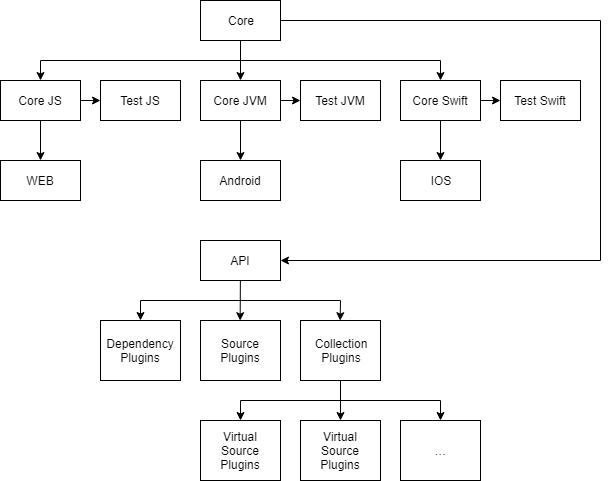
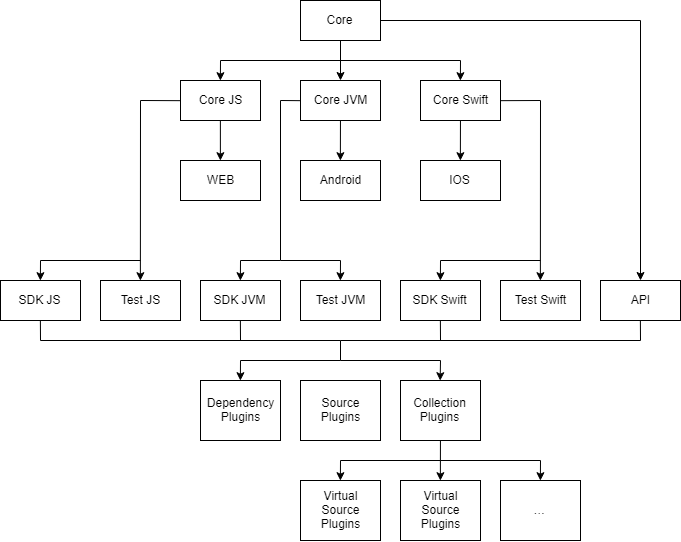
Update architecture

diff --git a/README.md b/README.md
@@ -8,15 +8,17 @@ EhViewer Evelin 是一个图片资源浏览器，其中漫画为主要对象。
 
 Core 为 Multiplatform Projects 中的 common 模块，完全用 Kotlin 来写。提供一套 API 接口供 Plugins 使用，并且以与平台无关的代码完成部分业务逻辑。
 
+API 为 Core 导出的一套供 Plugins 使用的接口。
+
 Core JS，Core JVM，Core Swift 为 Multiplatform Projects 中的 platform 模块，全部或部分用 Kotlin 来写。利用与平台相关的代码完善 Core 中的业务逻辑。
+
+SDK JS，SDK JVM，SDK Swift 由 Core JS，Core JVM，Core Swift 分别导出，为 Plugins 提供编译环境。
 
 Test JS，Test JVM，Test Swift 全部或部分用 Kotlin 来写。目的是方便开发者测试 Plugins。
 
 WEB，Android，IOS 为 Multiplatform Projects 中的 regular 模块，所用语言分平台讨论。这即为最终客户端，用于提供用户界面，并将用户界面与业务逻辑连接起来。
 
-API 为 Core 导出的一套供 Plugins 使用的接口。可参照 Android SDK。
-
-Plugins 即插件，全部或部分用 Kotlin 来写。Plugins 需要针对各平台，甚至各客户端分别编译一套。Plugins 可根据不同平台进行功能实现，故可能针对不同平台使用不同的代码。
+Plugins 即插件，全部或部分用 Kotlin 来写。Plugins 需要针对各平台，甚至各客户端分别编译一套。由于 API 由 Core 导出，可以实现各平台源码共用。同时 Plugins 可根据不同平台进行功能实现，故也可以针对不同平台使用不同的代码。
 
 Dependency Plugins 为用于提供其他 Plugins 运行环境的 Plugins。该种 Plugins 可能不需要由 Core 导出的 API，反而可由自身导出 API 供其他 Plugins 使用。目的是减小应用与 Plugins 的大小。
 
